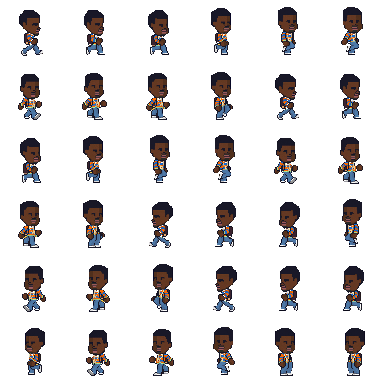
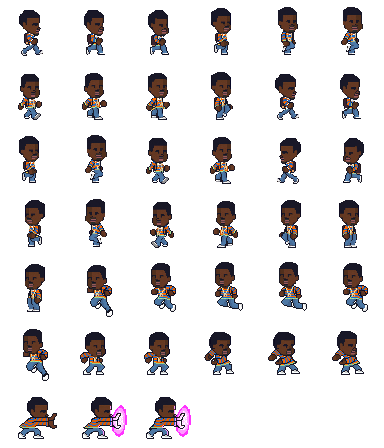
personagens

diff --git a/cliente/js/mapa1.js b/cliente/js/mapa1.js
@@ -17,7 +17,7 @@ export default class mapa1 extends Phaser.Scene {
       frameWidth: 47,
       frameHeight: 64
     })
-    this.load.spritesheet('YE-pulo', '../assets/ye-pulo.png', {
+    this.load.spritesheet('YE-pulo', '../assets/YE-pulo.png', {
       frameWidth: 64,
       frameHeight: 64
     })
@@ -78,11 +78,13 @@ export default class mapa1 extends Phaser.Scene {
         .then((stream) => {
           this.game.localConnection = new RTCPeerConnection(this.game.ice_servers)
 
-          this.game.localConnection.onicecandidate = ({ candidate }) =>
-            candidate && this.game.socket.emit('candidate', this.game.sala, candidate)
+          this.game.localConnection.onicecandidate = function ({ candidate }) {
+            candidate && globalThis.game.socket.emit('candidate', globalThis.game.sala, candidate)
+          }
 
-          this.game.localConnection.ontrack = ({ streams: [stream] }) =>
-            this.game.audio.srcObject = stream
+          this.game.localConnection.ontrack = function ({ streams: [stream] }) {
+            globalThis.game.audio.srcObject = stream
+          }
 
           stream.getTracks()
             .forEach((track) => this.game.localConnection.addTrack(track, stream))
@@ -99,11 +101,13 @@ export default class mapa1 extends Phaser.Scene {
     this.game.socket.on('offer', (description) => {
       this.game.remoteConnection = new RTCPeerConnection(this.game.ice_servers)
 
-      this.game.remoteConnection.onicecandidate = ({ candidate }) =>
-        candidate && this.game.socket.emit('candidate', this.game.sala, candidate)
+      this.game.remoteConnection.onicecandidate = function ({ candidate }) {
+        candidate && globalThis.game.socket.emit('candidate', globalThis.game.sala, candidate)
+      }
 
-      this.game.remoteConnection.ontrack = ({ streams: [midia] }) =>
-        this.game.audio.srcObject = midia
+      this.game.remoteConnection.ontrack = function ({ streams: [midia] }) {
+        globalThis.game.audio.srcObject = midia
+      }
 
       this.game.midias.getTracks()
         .forEach((track) => this.game.remoteConnection.addTrack(track, this.game.midias))
@@ -123,122 +127,55 @@ export default class mapa1 extends Phaser.Scene {
       conn.addIceCandidate(new RTCIceCandidate(candidate))
     })
 
+    this.cameras.main.startFollow(this.personagem)
+
     /* animações */
     this.anims.create({
-      key: 'YE-paradoD',
-      frames: this.anims.generateFrameNumbers('YE', {
-        start: 34,
-        end: 34
+      key: 'personagem-parado',
+      frames: this.anims.generateFrameNumbers(this.local, {
+        start: 23,
+        end: 23
       }),
       frameRate: 1
     })
 
     this.anims.create({
-      key: 'YE-paradoE',
-      frames: this.anims.generateFrameNumbers('YE', {
-        start: 35,
-        end: 35
-      }),
-      frameRate: 1
-    })
-
-    this.anims.create({
-      key: 'YE-direita',
-      frames: this.anims.generateFrameNumbers('YE', {
+      key: 'personagem-direita',
+      frames: this.anims.generateFrameNumbers(this.local, {
         start: 0,
-        end: 18
+        end: 8
       }),
-      frameRate: 15,
+      frameRate: 12,
       repeat: -1
     })
 
     this.anims.create({
-      key: 'YE-esquerda',
-      frames: this.anims.generateFrameNumbers('YE', {
-        start: 20,
-        end: 33
+      key: 'personagem-esquerda',
+      frames: this.anims.generateFrameNumbers(this.local, {
+        start: 16,
+        end: 22
       }),
-      frameRate: 15,
+      frameRate: 12,
       repeat: -1
     })
 
     this.anims.create({
-      key: 'YE-pulo',
-      frames: this.anims.generateFrameNumbers('YE-pulo', {
-        start: 0,
-        end: 3
+      key: 'personagem-pulo',
+      frames: this.anims.generateFrameNumbers(this.local, {
+        start: 25,
+        end: 27
       }),
-      frameRate: 3,
+      frameRate: 12,
       repeat: -1
     })
 
     this.anims.create({
-      key: 'YE-pulou',
-      frames: this.anims.generateFrameNumbers('YE-pulo', {
-        start: 4,
-        end: 7
+      key: 'personagem-pulou',
+      frames: this.anims.generateFrameNumbers(this.local, {
+        start: 27,
+        end: 30
       }),
-      frameRate: 3,
-      repeat: -1
-    })
-
-    this.anims.create({
-      key: 'tyler-direita',
-      frames: this.anims.generateFrameNumbers('tyler', {
-        start: 0,
-        end: 35
-      }),
-      frameRate: 15,
-      repeat: -1
-    })
-
-    this.anims.create({
-      key: 'tyler-esquerda',
-      frames: this.anims.generateFrameNumbers('tyler', {
-        start: 36,
-        end: 71
-      }),
-      frameRate: 15,
-      repeat: -1
-    })
-
-    this.anims.create({
-      key: 'tyler-paradoD',
-      frames: this.anims.generateFrameNumbers('tyler', {
-        start: 72,
-        end: 77
-      }),
-      frameRate: 3,
-      repeat: -1
-    })
-
-    this.anims.create({
-      key: 'tyler-paradoE',
-      frames: this.anims.generateFrameNumbers('tyler', {
-        start: 78,
-        end: 83
-      }),
-      frameRate: 3,
-      repeat: -1
-    })
-
-    this.anims.create({
-      key: 'tyler-pulo',
-      frames: this.anims.generateFrameNumbers('tyler-pulo', {
-        start: 0,
-        end: 3
-      }),
-      frameRate: 3,
-      repeat: -1
-    })
-
-    this.anims.create({
-      key: 'tyler-pulou',
-      frames: this.anims.generateFrameNumbers('tyler-pulo', {
-        start: 4,
-        end: 6
-      }),
-      frameRate: 3,
+      frameRate: 12,
       repeat: -1
     })
 
@@ -250,17 +187,13 @@ export default class mapa1 extends Phaser.Scene {
       .setInteractive()
       .on('pointerdown', () => {
         this.direita.setFrame(1)
-        this.personagem.anims.play('YE-direita', true)
+        this.personagem.anims.play('personagem-direita', true)
         this.personagem.setVelocityX(200)
-        this.personagemRemoto.anims.play('tyler-direita', true)
-        this.personagemRemoto.setVelocityX(200)
       })
       .on('pointerup', () => {
         this.direita.setFrame(0)
-        this.personagem.anims.play('YE-paradoD')
+        this.personagem.anims.play('personagem-parado')
         this.personagem.setVelocityX(0)
-        this.personagemRemoto.anims.play('tyler-paradoD')
-        this.personagemRemoto.setVelocityX(0)
       })
 
     /* botão pra esquerda */
@@ -269,17 +202,13 @@ export default class mapa1 extends Phaser.Scene {
       .setInteractive()
       .on('pointerdown', () => {
         this.esquerda.setFrame(1)
-        this.personagem.anims.play('YE-esquerda', true)
+        this.personagem.anims.play('personagem-esquerda', true)
         this.personagem.setVelocityX(-200)
-        this.personagemRemoto.anims.play('tyler-esquerda', true)
-        this.personagemRemoto.setVelocityX(-200)
       })
       .on('pointerup', () => {
         this.esquerda.setFrame(0)
-        this.personagem.anims.play('YE-paradoE')
+        this.personagem.anims.play('personagem-parado')
         this.personagem.setVelocityX(0)
-        this.personagemRemoto.anims.play('tyler-paradoE')
-        this.personagemRemoto.setVelocityX(0)
       })
 
     /* botão pra cima */
@@ -289,19 +218,13 @@ export default class mapa1 extends Phaser.Scene {
       .on('pointerdown', () => {
         this.cima.setFrame(1)
         if (this.personagem.body.blocked.down) {
-          this.personagem.anims.play('YE-pulo', true)
+          this.personagem.anims.play('personagem-pulo', true)
           this.personagem.setVelocityY(-500)
-        }
-        if (this.personagem.body.blocked.down) {
-          this.personagemRemoto.anims.play('tyler-pulo', true)
-          this.personagemRemoto.setVelocityY(-500)
         }
       })
       .on('pointerup', () => {
         this.cima.setFrame(0)
-        this.personagem.anims.play('YE-pulou')
-        this.cima.setFrame(0)
-        this.personagemRemoto.anims.play('tyler-pulou')
+        this.personagem.anims.play('personagem-pulou')
       })
 
     this.layerfundo.setCollisionByProperty({ collides: true })

diff --git a/cliente/js/sala.js b/cliente/js/sala.js
@@ -92,17 +92,9 @@ export default class abertura extends Phaser.Scene {
     this.game.socket.on('jogadores', (jogadores) => {
       console.log(jogadores)
       if (jogadores.segundo) {
-        this.mensagem.destroy()
         this.game.jogadores = jogadores
         this.game.scene.stop('sala')
         this.game.scene.start('mapa1')
-      } else if (jogadores.primeiro) {
-        this.mensagem.setText('Aguardando segundo jogador...')
-        navigator.mediaDevices.getUserMedia({ video: false, audio: true })
-          .then((stream) => {
-            this.game.midias = stream
-          })
-          .catch((error) => console.error(error))
       }
     })
   }

diff --git a/cliente/js/index.js b/cliente/js/index.js
@@ -1,8 +1,7 @@
 import config from './config.js'
 import abertura from './abertura.js'
 import sala from './sala.js'
-// import mapa1 from './mapa1.js'
-
+import mapa1 from './mapa1.js'
 
 /* global Phaser */
 class Game extends Phaser.Game {
@@ -42,7 +41,7 @@ class Game extends Phaser.Game {
 
     this.scene.add('abertura', abertura)
     this.scene.add('sala', sala)
-    // this.scene.add('mapa1', mapa1)
+    this.scene.add('mapa1', mapa1)
 
     this.scene.start('abertura')
   }
